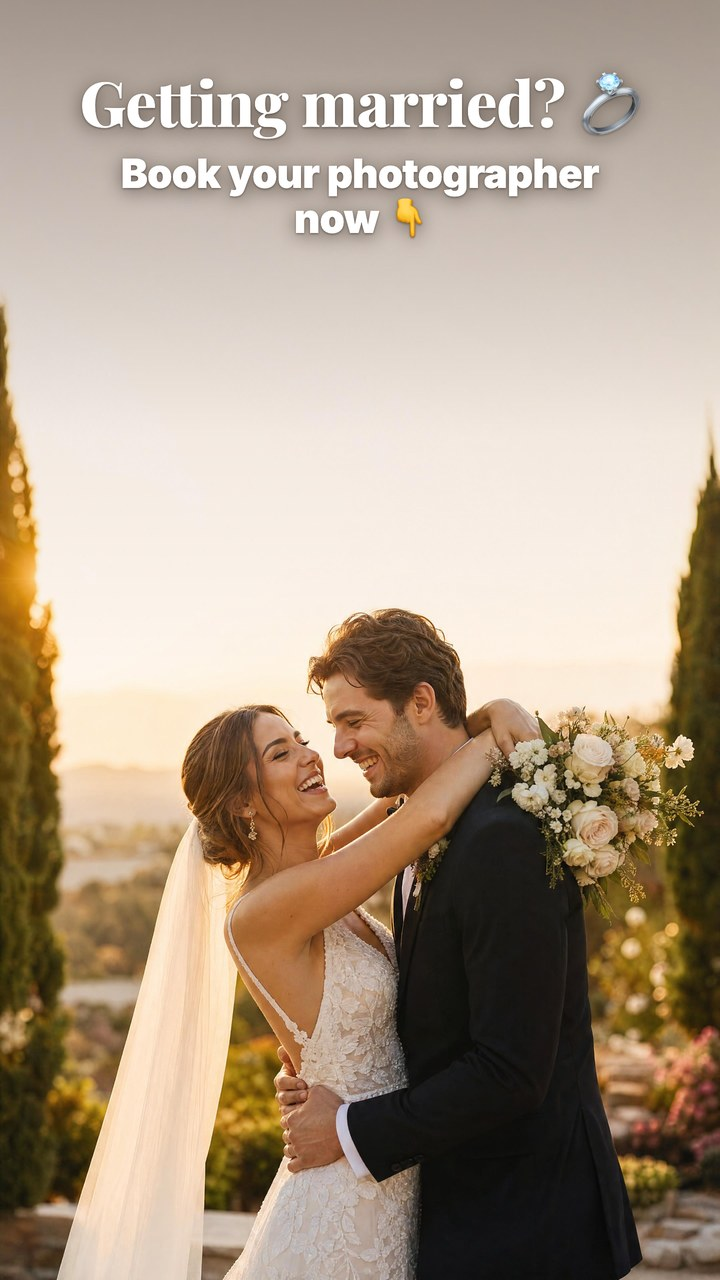
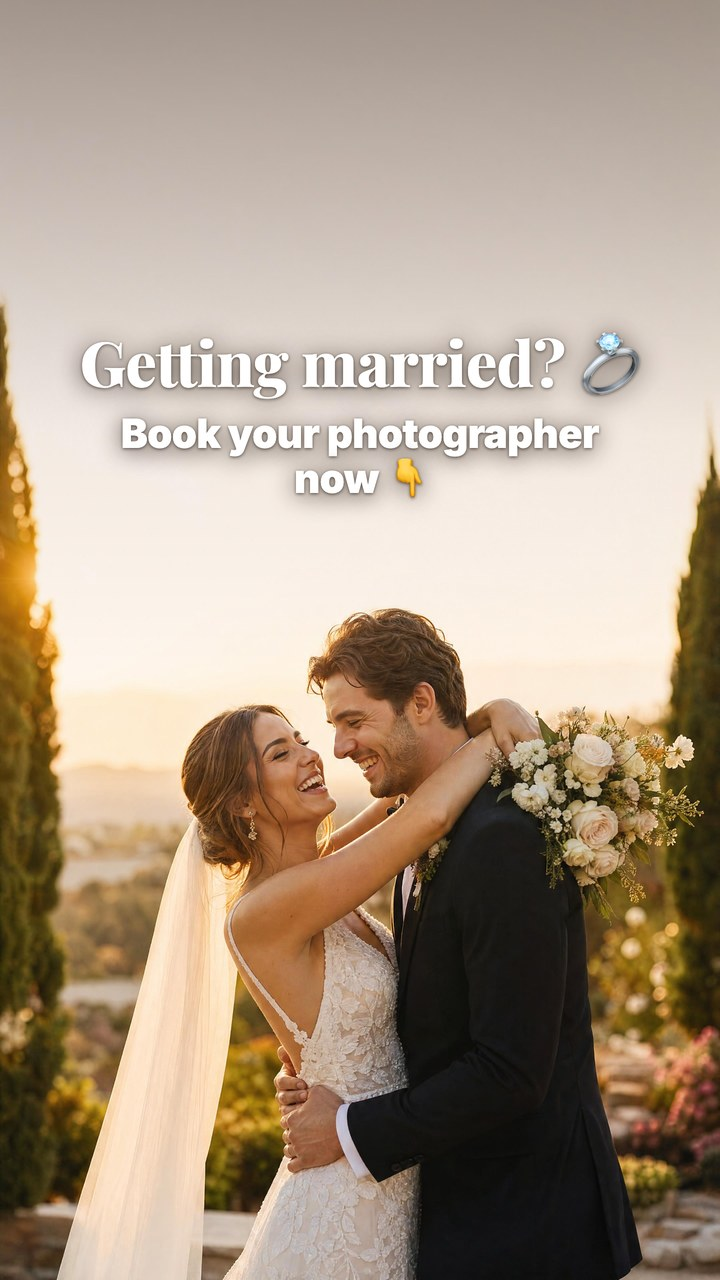
Booked-Out: move reel caption down into clear sky (v2)

Changed region(s): [[0.0917, 0.25, 0.9167, 0.4062], [0.0917, 0.0312, 0.8861, 0.1875]]

diff --git a/ffc-email-assets/bookedout-preview.html b/ffc-email-assets/bookedout-preview.html
@@ -262,7 +262,7 @@
 
       <div class="step">
         <div class="ph"><div class="scr s2">
-          <img class="bg" src="https://facelessreelslab-assets.onrender.com/bookedout-ad-reel.webp?v=1" alt="Wedding ad creative">
+          <img class="bg" src="https://facelessreelslab-assets.onrender.com/bookedout-ad-reel.webp?v=2" alt="Wedding ad creative">
           <div class="shade"></div>
           <div class="top"><span>Sponsored</span><span>📷</span></div>
           <div class="rail">
